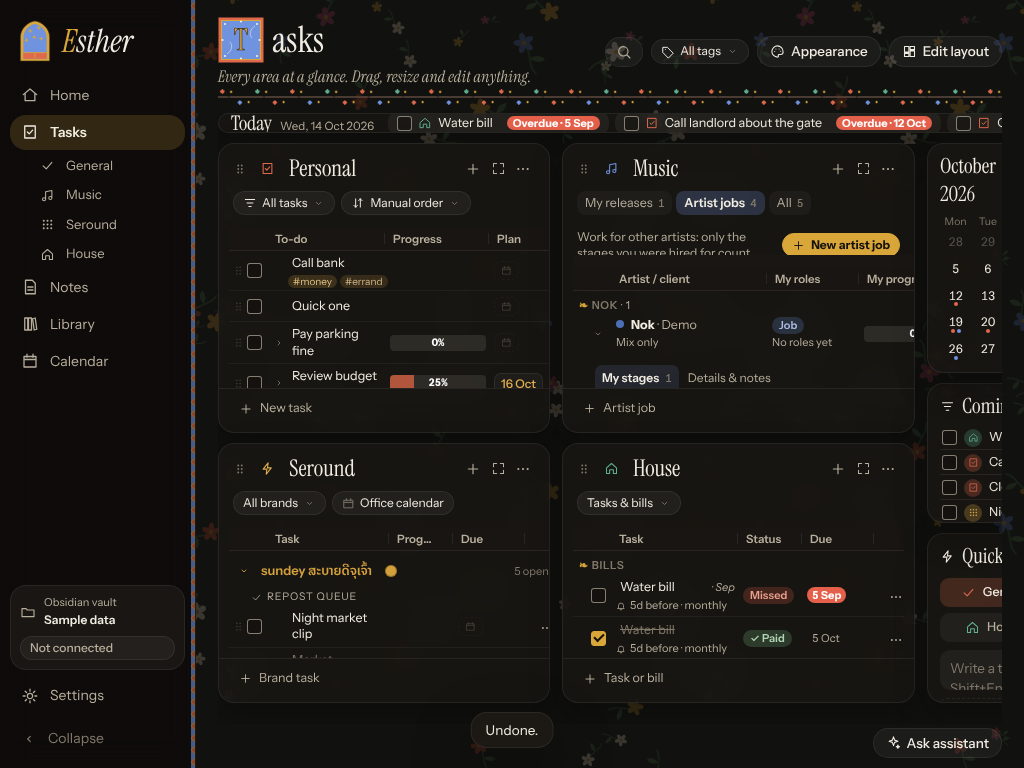
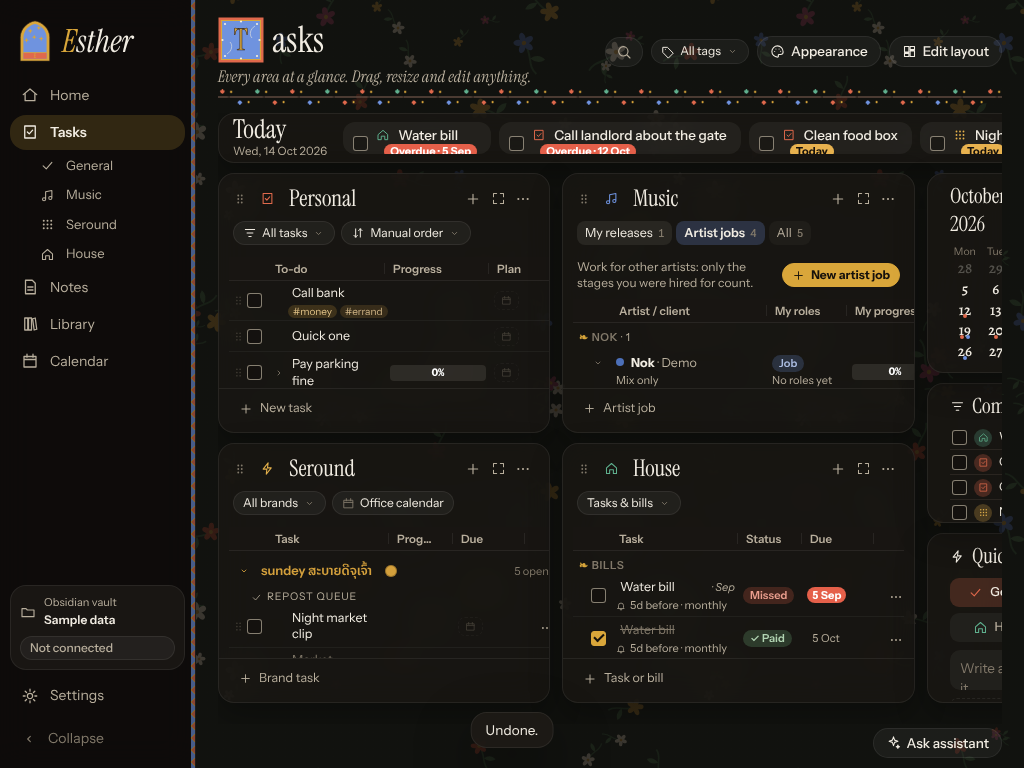
Calendar rounded squares + medieval numerals; fuller Today strip; Music row fixes; grip placement
- Calendar days: rounded-square hover/today/picked again, no rectangle glow; numbers in Alegreya old-style figures.
- Today strip: one line of two-row cards that fill its height; bigger 'Today' heading.
- Music tables: header no longer covers the New button; expand arrow lines up with the project name; full-width columns are roomier; board job columns fit.
- Widget grips sit in the header's left margin, in line with the title.

Claude-Session: https://claude.ai/code/session_016WKLQPuGqaCrfQHNoqNZZi

diff --git a/frankk-app/src/styles.css b/frankk-app/src/styles.css
@@ -1459,7 +1459,7 @@ input.editable.editing::selection { background: color-mix(in srgb, var(--accent)
 .cal-grid .day:hover:not(.today) { background: color-mix(in srgb, var(--text) 10%, transparent); }
 .cal-grid .day .marks { bottom: -1px; }
 .panel-body { padding-top: 0 !important; }
-.panel-body > .table > .thead, .panel-body .thead { top: 0; box-shadow: 0 -12px 0 0 var(--panel-solid, rgb(25 22 19)); }
+.panel-body > .table > .thead, .panel-body .thead { top: 0; }
 .cal-grid .day .marks { bottom: 4px; } .cal-grid .day { line-height: 1; padding-bottom: 4px !important; }
 
 /* Today strip: items wrap onto as many lines as the strip is tall, and scroll up/down like everything else */
@@ -1547,3 +1547,34 @@ section.today .today-head { display: flex; align-items: baseline; gap: 8px; whit
 .stepper .node { height: 24px !important; display: grid; place-items: center; }
 .stepper .bar { top: 10.5px !important; height: 3px !important; left: calc(50% + 15px) !important; right: calc(-50% + 15px) !important; border-radius: 2px !important; background: color-mix(in srgb, var(--text) 12%, transparent) !important; }
 .stepper li .bar b, .stepper li.done .bar b, .stepper li.active .bar b { background: var(--accent) !important; }
+/* Project rows: the expand arrow lines up with the project name, not the middle of a three-line cell */
+.task.project > .trow { align-items: start; padding-top: 6px; padding-bottom: 6px; }
+.task.project > .trow > .chev { margin-top: 1px; }
+.task.project > .trow > .cell:not(.title-cell) { align-self: center; }
+.music-bar { margin-bottom: 8px; }
+
+/* ── Iteration 20: calendar days are rounded squares again, numbers in a medieval serif ── */
+.cal-grid .day { width: min(36px, 100%); aspect-ratio: 1; border-radius: 10px !important; font: 500 15px/1 'Alegreya', 'Source Serif 4', Georgia, serif;
+  font-variant-numeric: oldstyle-nums proportional-nums; padding-bottom: 5px !important; box-shadow: none !important; outline: none !important; }
+.cal-grid .day:hover:not(.today) { background: color-mix(in srgb, var(--text) 9%, transparent); box-shadow: none !important; }
+.cal-grid .day.picked:not(.today) { background: color-mix(in srgb, var(--accent) 22%, transparent) !important; outline: none !important; }
+.cal-grid .day.today { font-weight: 700; }
+.cal-grid .day:focus-visible { outline: 2px solid color-mix(in srgb, var(--accent) 60%, transparent) !important; outline-offset: 1px; }
+.big-day .n { font: 600 15px 'Alegreya', Georgia, serif; font-variant-numeric: oldstyle-nums; }
+
+/* Widget grip sits in the header's left margin, in line with the title, instead of floating over it */
+.widget.has-grip .widget-grip { top: 50%; left: 3px; transform: translateY(-50%); }
+.widget.has-grip > :is(.capture, .coming, .minical) .widget-grip { top: 14px; }
+.widget.has-grip .widget-grip { top: 13px; transform: none; }
+.widget.has-grip > :is(.capture, .coming, .minical) { padding-left: 22px; }
+/* Today strip: one line of fuller two-row cards that fill the strip's height */
+section.today { padding: 8px 14px; gap: 16px; }
+section.today .today-head { flex-direction: column; align-items: flex-start; gap: 2px; }
+:is([data-style='gilded'], [data-style='modern']) section.today .today-head strong { font-size: 26px; line-height: 1; }
+.today-list { height: 100%; align-items: stretch !important; gap: 8px; padding: 0; }
+.today-item { display: grid !important; grid-template-columns: auto auto 1fr; grid-template-rows: 1fr 1fr; column-gap: 8px; row-gap: 2px; align-items: center;
+  padding: 6px 14px 6px 10px !important; min-height: 0; max-width: 300px; border-radius: 12px !important; }
+.today-item > .check { grid-row: 1 / 3; align-self: center; }
+.today-item > svg { grid-row: 1; grid-column: 2; }
+.today-item > .today-title { grid-row: 1; grid-column: 3; font-size: 13.5px; font-weight: 500; }
+.today-item > .when { grid-row: 2; grid-column: 2 / 4; justify-self: start; font-size: 11px; }

diff --git a/frankk-app/src/panels/MusicPanel.tsx b/frankk-app/src/panels/MusicPanel.tsx
@@ -22,25 +22,25 @@ import { PIGMENTS, RELEASE_STEPS, SIDE_STAGES, STAGE_LIBRARY, type MusicProject,
 import { newId } from '../data/fixtures';
 
 export const MUSIC_COLS: ColDef[] = [
-  { id: 'title', label: 'Artist / Project', width: 106, min: 70 },
-  { id: 'type', label: 'Role / Type', width: 78, min: 50 },
-  { id: 'progress', label: 'Progress', width: 84, min: 50 },
-  { id: 'next', label: 'Next', width: 54, min: 40 },
+  { id: 'title', label: 'Artist / Project', width: 106, min: 70, focusWidth: 300 },
+  { id: 'type', label: 'Role / Type', width: 78, min: 50, focusWidth: 200 },
+  { id: 'progress', label: 'Progress', width: 84, min: 50, focusWidth: 180 },
+  { id: 'next', label: 'Next date', width: 54, min: 40, focusWidth: 100 },
 ];
 
 type Tab = 'own-release' | 'artist-job' | 'all';
 
 const REL_COLS: ColDef[] = [
-  { id: 'title', label: 'Release', width: 150, min: 80 },
-  { id: 'type', label: 'Format', width: 70, min: 50 },
-  { id: 'progress', label: 'Release steps', width: 150, min: 80 },
-  { id: 'next', label: 'Next date', width: 70, min: 46 },
+  { id: 'title', label: 'Release', width: 150, min: 80, focusWidth: 300 },
+  { id: 'type', label: 'Format', width: 70, min: 50, focusWidth: 150 },
+  { id: 'progress', label: 'Release steps', width: 150, min: 80, focusWidth: 200 },
+  { id: 'next', label: 'Next date', width: 70, min: 46, focusWidth: 100 },
 ];
 const JOB_COLS: ColDef[] = [
-  { id: 'title', label: 'Artist / client', width: 150, min: 80 },
-  { id: 'type', label: 'My roles', width: 90, min: 50 },
-  { id: 'progress', label: 'My progress', width: 110, min: 60 },
-  { id: 'next', label: 'Next date', width: 70, min: 46 },
+  { id: 'title', label: 'Artist / client', width: 150, min: 80, focusWidth: 300 },
+  { id: 'type', label: 'My roles', width: 78, min: 50, focusWidth: 200 },
+  { id: 'progress', label: 'My progress', width: 92, min: 60, focusWidth: 180 },
+  { id: 'next', label: 'Next date', width: 70, min: 46, focusWidth: 100 },
 ];
 const RELEASE_TYPES = [{ id: 'single', label: 'Single' }, { id: 'ep', label: 'EP' }, { id: 'album', label: 'Album' }, { id: 'other', label: 'Other' }] as const;
 type PatchP = Partial<Pick<MusicProject, 'artist' | 'title' | 'client' | 'label' | 'roles' | 'targetRelease' | 'start' | 'color' | 'notes' | 'releaseType'>>;
@@ -48,9 +48,9 @@ type PatchP = Partial<Pick<MusicProject, 'artist' | 'title' | 'client' | 'label'
 export function MusicPanel({ focused }: { focused: boolean }) {
   const { data } = useStore();
   const { setProjectDialog, reveal, tagFilter } = useUi();
-  const relCols = useColumns('music.rel', REL_COLS);
-  const jobCols = useColumns('music.job', JOB_COLS);
-  const allCols = useColumns('music', MUSIC_COLS);
+  const relCols = useColumns('music.rel', REL_COLS, focused);
+  const jobCols = useColumns('music.job', JOB_COLS, focused);
+  const allCols = useColumns('music', MUSIC_COLS, focused);
   const [prefs, setPrefs] = usePersistentState<{ tab: Tab; sort: SortState | null }>('prefs.music.v2', { tab: 'own-release', sort: null });
   const [open, setOpen] = useState<Set<string>>(new Set(['p-single']));
   const tab = prefs.tab;

diff --git a/frankk-app/src/layout.ts b/frankk-app/src/layout.ts
@@ -24,12 +24,12 @@ export const WIDGETS: { id: WidgetId; label: string; secondary: boolean }[] = [
  * with the calendar, coming-up list and quick capture stacked down the right.
  */
 export const DEFAULT_LAYOUT: LayoutItem[] = [
-  { i: 'today', x: 0, y: 0, w: 48, h: 1, minW: 16, minH: 1, maxH: 4 },
-  { i: 'general', x: 0, y: 1, w: 17, h: 10, minW: 8, minH: 5 },
-  { i: 'music', x: 17, y: 1, w: 18, h: 10, minW: 10, minH: 5 },
+  { i: 'today', x: 0, y: 0, w: 48, h: 2, minW: 16, minH: 2, maxH: 4 },
+  { i: 'general', x: 0, y: 2, w: 17, h: 9, minW: 8, minH: 5 },
+  { i: 'music', x: 17, y: 2, w: 18, h: 9, minW: 10, minH: 5 },
   { i: 'seround', x: 0, y: 11, w: 17, h: 9, minW: 8, minH: 5 },
   { i: 'house', x: 17, y: 11, w: 18, h: 9, minW: 7, minH: 5 },
-  { i: 'calendar', x: 35, y: 1, w: 13, h: 8, minW: 10, minH: 5 },
+  { i: 'calendar', x: 35, y: 2, w: 13, h: 7, minW: 10, minH: 5 },
   { i: 'coming', x: 35, y: 9, w: 13, h: 5, minW: 9, minH: 4 },
   { i: 'capture', x: 35, y: 14, w: 13, h: 6, minW: 10, minH: 5 },
 ];

diff --git a/frankk-app/src/App.tsx b/frankk-app/src/App.tsx
@@ -99,7 +99,7 @@ function TasksBoard({ theme, setTheme }: { theme: ThemePrefs; setTheme: (t: Them
   const { focusArea, setPalette, tagFilter, setTagFilter, say } = useUi();
   const { data } = useStore();
   const [day, setDay] = useState<string | null>(null);
-  const [saved, setSaved] = usePersistentState<{ items: LayoutItem[]; hidden: WidgetId[] }>('layout.board.v3', { items: DEFAULT_LAYOUT, hidden: [] });
+  const [saved, setSaved] = usePersistentState<{ items: LayoutItem[]; hidden: WidgetId[] }>('layout.board.v4', { items: DEFAULT_LAYOUT, hidden: [] });
   const { width, containerRef, mounted } = useContainerWidth();
   const [height, setHeight] = useState(800);
   const [dragging, setDragging] = useState(false);
